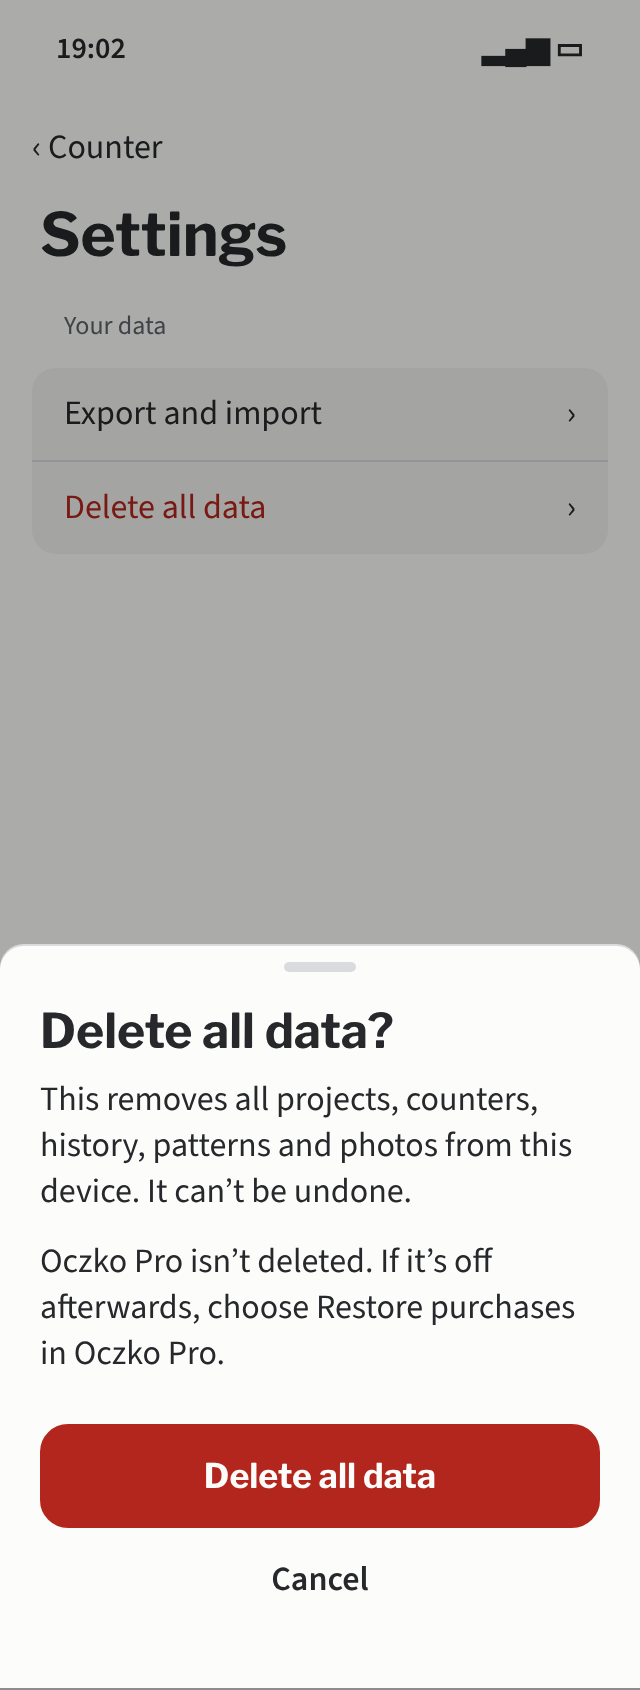
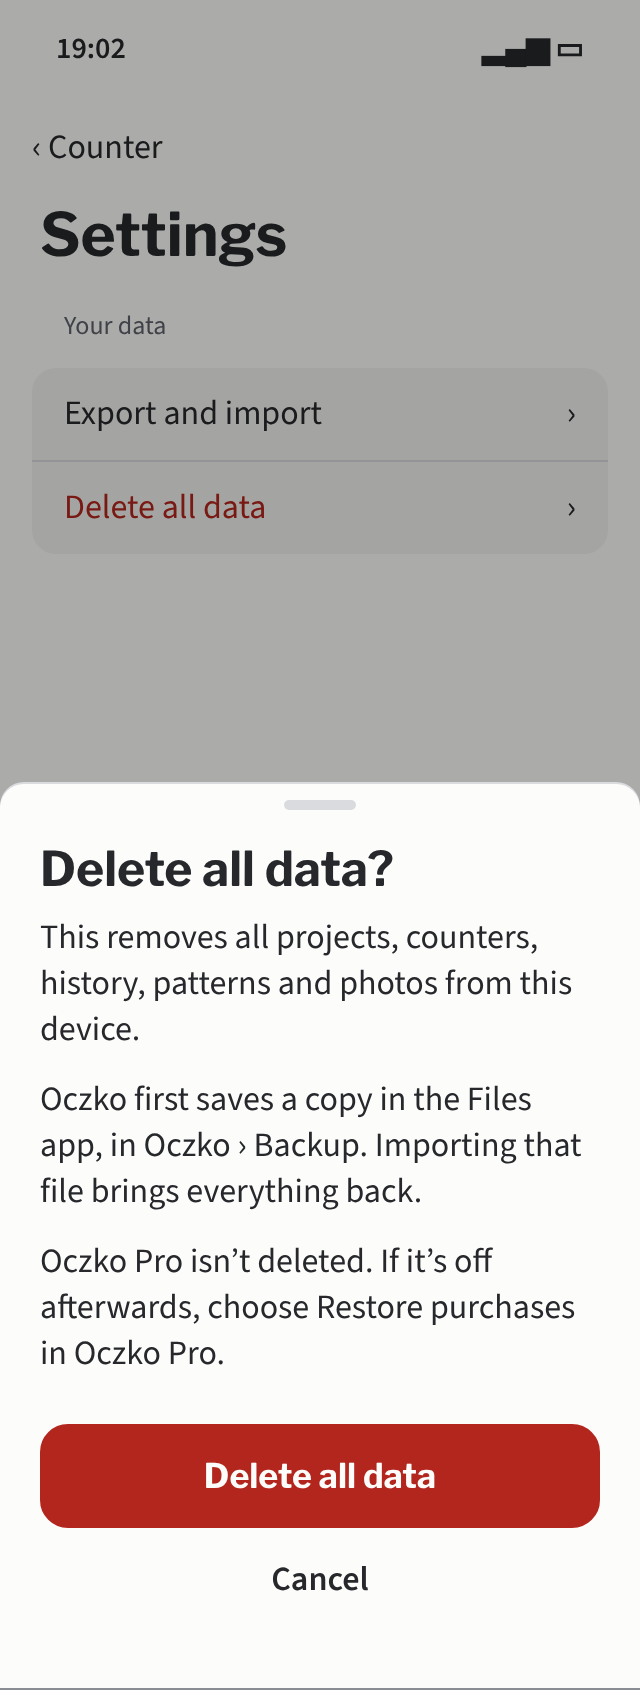
Projekt 04: partia 8 — dopiski P-327 i P-328 (rysik Pen, wiersze Ustawień, kopia przed usunięciem, kopie w „Data and sync”, token zegarka)
Rysik: pierwsze dotknięcie wybiera Pen (BR-WZR-004 S2). Ustawienia: wibracje, ekran
nie gaśnie, układ miar (ADR-0029). „Delete all data”: kopia przed usunięciem i
komunikat o jej niepowodzeniu. „Data and sync”: podpis o kopiach w Plikach (N-05-2).
Token haptykaZegarek.przypomnienie = WKHapticType.notification (ADR-0030, K-05g).
+11 kluczy en (81), 3 nowe stany makiety (32), wzorce 256. Tylko docs/design.

Changed region(s): [[0.0, 0.4615, 1.0, 0.7385]]

diff --git a/docs/design/fix10-2026-11-01/partia8.html b/docs/design/fix10-2026-11-01/partia8.html
@@ -315,7 +315,7 @@ main[data-ekran].tel { height: var(--h, 844px); min-height: 0; overflow: hidden;
 
 <!-- usun-wszystko -->
 <main data-ekran="usun-wszystko">
-<div class="status"><span>19:02</span><span>▂▄▆ ▭</span></div><div class="nav"><a href="#">‹ Counter</a><div class="ikony"></div></div><div class="tytul"><h1>Settings</h1></div><div class="naglowek-grupy">Your data</div><div class="grupa"><div class="el"><div class="tx">Export and import</div><span aria-hidden="true">›</span></div><div class="el"><div class="tx usun-tekst">Delete all data</div><span aria-hidden="true">›</span></div></div><div class="przyciemnienie"></div><div class="arkusz"><div class="uchwyt"></div><div class="tresc-arkusza"><h2>Delete all data?</h2><p>This removes all projects, counters, history, patterns and photos from this device. It can’t be undone.</p><p>Oczko Pro isn’t deleted. If it’s off afterwards, choose Restore purchases in Oczko Pro.</p></div><div class="przyciski"><button class="przycisk-niszczacy">Delete all data</button><button class="przycisk-tekst">Cancel</button></div></div>
+<div class="status"><span>19:02</span><span>▂▄▆ ▭</span></div><div class="nav"><a href="#">‹ Counter</a><div class="ikony"></div></div><div class="tytul"><h1>Settings</h1></div><div class="naglowek-grupy">Your data</div><div class="grupa"><div class="el"><div class="tx">Export and import</div><span aria-hidden="true">›</span></div><div class="el"><div class="tx usun-tekst">Delete all data</div><span aria-hidden="true">›</span></div></div><div class="przyciemnienie"></div><div class="arkusz"><div class="uchwyt"></div><div class="tresc-arkusza"><h2>Delete all data?</h2><p>This removes all projects, counters, history, patterns and photos from this device.</p><p>Oczko first saves a copy in the Files app, in Oczko › Backup. Importing that file brings everything back.</p><p>Oczko Pro isn’t deleted. If it’s off afterwards, choose Restore purchases in Oczko Pro.</p></div><div class="przyciski"><button class="przycisk-niszczacy">Delete all data</button><button class="przycisk-tekst">Cancel</button></div></div>
 </main>
 
 <!-- licznik-seria-blokada -->
@@ -366,6 +366,21 @@ main[data-ekran].tel { height: var(--h, 844px); min-height: 0; overflow: hidden;
 <!-- wzor-opcja-kropka -->
 <main data-ekran="wzor-opcja-kropka">
 <div class="status"><span>19:02</span><span>▂▄▆ ▭</span></div><div class="nav"><a href="#">‹ Harbor Sweater</a><div class="ikony"><span class="ikona" role="button" aria-label="Add note">✎</span><span class="ikona" role="button" aria-label="Pattern options">•••</span></div></div><div class="tytul"><h1 style="font-size:calc(24px * var(--dt-tytul))">Sleeve pattern</h1></div><div class="wzor-strona" style="height:420px"><div class="tekst-wzoru"></div><div class="znacznik" style="top:150px"><span class="tab">Row 48 ↑</span><span class="uchwyt-dol"></span></div><div class="chip-notatki" role="button" aria-label="Note on row 30" style="top:268px;max-width:none;width:28px;padding:0;justify-content:center"><span aria-hidden="true">✎</span></div></div><p class="podpis" style="margin:8px 20px 0">Page 2 of 5 · counter row 47</p><span class="oznaczenie">opcja B: sama ikona, tekst po stuknięciu</span>
+</main>
+
+<!-- ustawienia-preferencje -->
+<main data-ekran="ustawienia-preferencje">
+<div class="status"><span>19:02</span><span>▂▄▆ ▭</span></div><div class="nav"><a href="#">‹ Counter</a><div class="ikony"></div></div><div class="tytul"><h1>Settings</h1></div><div class="naglowek-grupy">Counting</div><div class="grupa"><div class="el"><div class="tx">Vibration</div><span class="przel wl" role="switch" aria-checked="true"></span></div><div class="el"><div class="tx">Keep screen on while counting</div><span class="przel wl" role="switch" aria-checked="true"></span></div><div class="el"><div class="tx">Units</div><span class="wartosc">Automatic</span><span aria-hidden="true">›</span></div></div><p class="podpis" style="margin:8px 32px 0">The screen stays on while the counter is open. Turning it off can save battery.</p><span class="oznaczenie">3 wiersze: wibracje, ekran, miary</span>
+</main>
+
+<!-- ustawienia-miary -->
+<main data-ekran="ustawienia-miary">
+<div class="status"><span>19:02</span><span>▂▄▆ ▭</span></div><div class="nav"><a href="#">‹ Settings</a><div class="ikony"></div></div><div class="tytul"><h1>Units</h1></div><div class="grupa"><div class="el"><div class="tx">Automatic</div><span aria-hidden="true">✓</span></div><div class="el"><div class="tx">Metric<small>mm, cm, g</small></div></div><div class="el"><div class="tx">Imperial<small>in, oz</small></div></div></div><p class="podpis" style="margin:8px 32px 0">Changes how sizes and lengths are shown and entered. Your saved data doesn’t change.</p>
+</main>
+
+<!-- stan-danych-kopie -->
+<main data-ekran="stan-danych-kopie">
+<div class="status"><span>19:02</span><span>▂▄▆ ▭</span></div><div class="nav"><a href="#">‹ Settings</a><div class="ikony"></div></div><div class="tytul"><h1>Data and sync</h1></div><div class="naglowek-grupy">iCloud</div><div class="grupa"><div class="el"><div class="tx">iCloud sync</div><span class="przel" role="switch" aria-checked="false"></span></div></div><p class="podpis" style="margin:16px 32px 0">Copies Oczko saved before importing or deleting are in the Files app, in Oczko › Backup. They count toward your device’s iCloud backup, so delete the ones you no longer need.</p><span class="oznaczenie">tylko gdy są kopie</span>
 </main>
 
 <script>

diff --git a/docs/design/design-spec.md b/docs/design/design-spec.md
@@ -14,7 +14,7 @@ Stan: E4 (przekazanie) · 2026-10-22 · Rola 04, build; fix NZ-P217-04 2026-10-2
 | Wzór, rysik, iPad (fix NZ-P217-04, grupa W) | `fix7-2026-10-26/wzor.html` (27 stanów), wzorce `wzorce-zrzuty/wzor-*` (268, `narzedzia/zrzuty-fix7.mjs`), klucze `fix7-2026-10-26/klucze.json` + `narzedzia/nakladaj-klucze-fix7.mjs`; kontrola `narzedzia/kontrola-nzp21704.mjs` |
 | „Udostępnij do Oczka”, skrzynka, iCloud (fix NZ-P217-04, grupy R i I) | `fix7-2026-10-26/udostepnij-icloud.html` (19 stanów), wzorce `wzorce-zrzuty/udostepnij-icloud-*` (228) |
 | Kosz wzoru, przycisk niszczący; opcje: licznik przy AX5, arkusz przy klawiaturze (fix-8) | `fix8-2026-10-27/fix8.html` (13 stanów na ekranie o wysokości urządzenia), wzorce `wzorce-zrzuty/fix8-*` (156, `narzedzia/zrzuty-fix8.mjs`), pomiar `fix8-2026-10-27/pomiar.json`, klucze `fix8-2026-10-27/klucze.json` |
-| Partia 8: włóczka w projekcie, komunikaty zakupu, „Replace”, notatka na wzorze, przypomnienia, cofanie z historii, licznik oczek, ukończone (P-326) | `fix10-2026-11-01/partia8.html` (29 stanów), wzorce `wzorce-zrzuty/partia8-*` (232, `narzedzia/zrzuty-partia8.mjs`), klucze `fix10-2026-11-01/klucze.json`; plan `fix10-2026-11-01.md` |
+| Partia 8: włóczka w projekcie, komunikaty zakupu, „Replace”, notatka na wzorze, przypomnienia, cofanie z historii, licznik oczek, ukończone (P-326) | `fix10-2026-11-01/partia8.html` (32 stany), wzorce `wzorce-zrzuty/partia8-*` (256, `narzedzia/zrzuty-partia8.mjs`), klucze `fix10-2026-11-01/klucze.json`; plan `fix10-2026-11-01.md` |
 | Klikalny prototyp i przejście poznawcze | `prototyp.html`, scenorys `przejscie/` (`narzedzia/scenorys.mjs`) |
 | Ikona | `ikona/` (warstwy SVG, `icon.png`, `ios-dark.png`, `watch.png`, `android-foreground.png`, `android-monochrome.png`, `splash-icon.png`, `arkusz.png`) |
 | Kroje (OFL) | `fonty/LibreFranklin.ttf` + licencja; treść: krój systemowy |
@@ -674,7 +674,7 @@ Makiety: `fix7-2026-10-26/wzor.html` (27 stanów: 20 telefonu w pionie, telefon 
 
 **Rysowanie (W5a, W6a; BR-WZR-004, BR-WZR-008; ADR-0012).**
 - **iPhone i iPad bez rysika:** zakreślacz (`wzor.zakreslacz`, testID `wzor-zakreslacz`, wartość VoiceOver `wzor.zakreslenia_*`) włącza tryb rysowania; pasek nawigacji zamienia się w pasek narzędzi: Highlighter (wybrany), `wzor.gumka`, ↶ (`wzor.cofnij_rysunek`), `wspolne.gotowe`. W trybie jeden palec zakreśla, dwa przewijają (podpowiedź `wzor.zakreslacz_podpowiedz` raz). Poza trybem palec tylko przewija (BR-WZR-008 S3).
-- **iPad (szerokość regular):** pasek narzędzi stały pod paskiem nawigacji: Highlighter, Pen (`wzor.pioro`), Eraser, ↶. Po pierwszym dotknięciu rysikiem polityka `pencilOnly`: rysik rysuje wybranym narzędziem od razu, palec zawsze przewija (P-218 Q2a); podpowiedź `wzor.rysik_podpowiedz` raz. Przed tym iPad działa jak iPhone.
+- **iPad (szerokość regular):** pasek narzędzi stały pod paskiem nawigacji: Highlighter, Pen (`wzor.pioro`), Eraser, ↶. Po pierwszym dotknięciu rysikiem polityka `pencilOnly`: rysik rysuje wybranym narzędziem od razu, palec zawsze przewija (P-218 Q2a); podpowiedź `wzor.rysik_podpowiedz` raz. Przed tym iPad działa jak iPhone. **Dopisek P-327 (2026-11-01, BR-WZR-004 S2; kontrakt ZM-11):** gdy po otwarciu wzoru nie wybrano narzędzia, **pierwsze dotknięcie rysikiem wybiera Pen i rysik pisze od razu**; potem obowiązuje `pencilOnly` (P-218 Q2a: rysik rysuje, palec przewija). Wybór Pen jest widoczny na pasku narzędzi (stan wybrany: kształt i obrys, nie sam kolor); bez rysika (iPhone, iPad przed pierwszym dotknięciem) zakreślacz palcem działa jak dotąd. Bez nowych tekstów ani makiety.
 - **Kolory:** zakreślacz = `kolor.zakreslacz` (`#F6E04A`) z mnożeniem na białej stronie, w obu motywach (strona to dokument); pióro = `kolor.wzor.znacznik` (`#26282C`), stała grubość. Bez wyboru kolorów i bez systemowej palety narzędzi (P-220 W5a, zasada 18). Rysunki to osobna warstwa, plik wzoru bez zmian (P-218 (2)).
 
 **iPad (W4b, G1; NFR-UKL-001 z P-218 Q3a).**
@@ -872,7 +872,7 @@ Raport: `oczko-warsztat` `04-studio/2026-10-30-audyt/`. Rozstrzygnięcia poniże
 - **D1a (P-281), brzmienie dla 35 języków:** w nazwach i opisach para „druty i szydełko”; w etykietach do 12 znaków słowo szersze (rękodzieło), a nie samo słowo drutowe; języki bez takiego słowa w słowniku: `[DO USTALENIA]` (rola 09).
 
 ## Partia 8: luki zgodności z zakresem 1.0 (07-jakosc-001, 002, 003, 007, 011, 012, 014 S5, 021, 025, 027, 031; P-326)
-Plan i decyzje: `fix10-2026-11-01.md`. Makiety: `fix10-2026-11-01/partia8.html` (29 stanów: 27 rekomendowanych + 2 opcje), wzorce `wzorce-zrzuty/partia8-<stan>-<320|390>-<jasny|ciemny>[-duzy].png` (232; wyjątek nazwany: bez 430 pt), klucze `fix10-2026-11-01/klucze.json` (70 nowych kluczy en z kontekstem, 7 zastąpień), narzędzie `narzedzia/zrzuty-partia8.mjs`. **Nowych tokenów i wzorców nie ma:** linia informacji (`uwaga`), arkusz formularza, alert, wiersz grupy, przycisk z obrysem, chip na stronie wzoru ze stałymi kolorami znacznika. Stan wyróżnień „opcja” = propozycja do decyzji koordynatora (P-087); do czasu decyzji 08 wdraża **rekomendację**. Kod 04 nie czyta (kwarantanna), więc „stan dziś” pochodzi z raportu zgodności 07 (ecc4c36).
+Plan i decyzje: `fix10-2026-11-01.md`. Makiety: `fix10-2026-11-01/partia8.html` (32 stany: 30 rekomendowanych + 2 opcje), wzorce `wzorce-zrzuty/partia8-<stan>-<320|390>-<jasny|ciemny>[-duzy].png` (256; wyjątek nazwany: bez 430 pt), klucze `fix10-2026-11-01/klucze.json` (81 nowych kluczy en z kontekstem, 7 zastąpień), narzędzie `narzedzia/zrzuty-partia8.mjs`. **Nowych tokenów i wzorców nie ma:** linia informacji (`uwaga`), arkusz formularza, alert, wiersz grupy, przycisk z obrysem, chip na stronie wzoru ze stałymi kolorami znacznika. Stan wyróżnień „opcja” = propozycja do decyzji koordynatora (P-087); do czasu decyzji 08 wdraża **rekomendację**. Kod 04 nie czyta (kwarantanna), więc „stan dziś” pochodzi z raportu zgodności 07 (ecc4c36).
 
 **001 · Włóczka w projekcie i „Edit stash” (F-37; BR-ZAP-002).**
 - **Wiersz „Yarn” w grupie „Details”** ekranu projektu (`projekt-wloczka`), pod „Needles or hook”: wartość = nazwa włóczki (jedna), `projekt.wloczki_*` (kilka) albo `projekt.wloczka_brak`. Stuknięcie → arkusz formularza `formularz.wloczka_tytul` (Cancel / Save): lista włóczek z zapasu jako wiersze z polem wyboru (kwadrat ze znakiem ✓ i `accessibilityRole="checkbox"`; stan niesie znak, nie kolor), druga linia `ukonczenie.w_zapasie_*`; włóczka z zapasem 0 też wybieralna (zużycie ponad zapas obsługuje karta). Pod listą odnośnik `zapas.dodaj`; po dodaniu włóczki arkusz wraca z nową włóczką zaznaczoną. Pusty zapas (`wloczka-pusto`): `formularz.wloczka_pusto` + przycisk `zapas.dodaj`, Save nieaktywny. Zapis = zbiór wierszy `projekt_wloczka`; odznaczenie włóczki, której zużycie już wpisano, usuwa wiersz (potwierdzenia nie ma — zużycie zapisuje dopiero karta).
@@ -887,7 +887,7 @@ Plan i decyzje: `fix10-2026-11-01.md`. Makiety: `fix10-2026-11-01/partia8.html` 
 
 **011 · Edycja i usuwanie przypomnień; sygnał po wpisaniu wartości (F-06; BR-LIC-009).** Menu ••• licznika: gdy licznik **nie ma** przypomnień — bez zmian („Add a reminder…” otwiera formularz); gdy **ma** ≥ 1 — pozycja `przyp.menu` „Reminders” z liczbą po prawej (`przyp-menu`) → arkusz listy `przyp.tytul` (Close / tytuł / `wspolne.dodaj`; `przyp-lista`): wiersz = instrukcja + druga linia `przyp.wiersz_*`; stuknięcie → arkusz `przyp.edytuj_tytul` (te same pola i podgląd „You’ll be reminded on rows: …” co przy dodawaniu) z wierszem destrukcyjnym `przyp.usun` na końcu (`przyp-edycja`) → alert `przyp.usun_tytul` (`przyp-usun`; styl `destructive`, nie przycisk `niszczacy`: to mała rzecz, jak „Delete part”). Po Save/Delete licznik od razu przelicza pasek zakreślacza (rząd w robocie). **Sygnał po wpisaniu wartości (S4, RD-13-W23):** po „Enter the row number” ekran liczy przypomnienia według reguły i, gdy nowy rząd w robocie ma przypomnienie, pokazuje **jedno** (najnowsze, nie każde pominięte): pasek zakreślacza + jedna wibracja wzorca „przypomnienie” + jedno ogłoszenie VoiceOver (jak przy wejściu w rząd po +1; `licznik-po-wpisaniu`); przy wpisaniu mniejszej wartości — bez sygnału (RD-13-W8). **Opcje (P) dla miejsca edycji:** **A (rekomendacja) — „Reminders” w menu** (jedno miejsce na dodawanie, zmianę i usunięcie; działa także na rzędach bez aktywnego przypomnienia); C — stuknięcie w pasek zakreślacza otwiera edycję (`przyp-opcja-c`; krócej, ale tylko w rzędzie z przypomnieniem, więc usunięcie przypomnienia „na zapas” wymaga dojścia do tego rzędu; pasek przestaje być tylko komunikatem). D2 (P-325) już przyjął „F-06 przypomnienie zmienia cały ekran” do stanu projektu — bez zmiany. Opcja A obejmuje też zegarek i ekran blokady: tam zmiany z aplikacji widać po następnym odświeżeniu stanu (bez nowych ekranów).
 
-**012 · „Delete all data” (F-34; KP-05) i iPad.** Arkusz decyzji (`usun-wszystko`): `ustawienia.usun_pytanie` + **drugi akapit `ustawienia.usun_pro`** (zakup nie jest usuwany, Pro wraca przez „Restore purchases”); przycisk `niszczacy` bez zmian. **„this iPhone” → „this device”** w tym tekście i w sześciu kluczach iCloud (lista w `klucze.json` → `zastapEn`; iCloud jest w 1.0 ukryty, ZM-06, ale tekst nie może zostać błędny po włączeniu). Opcje: **a (rekomendacja) — jedno słowo neutralne „device”** (1 wersja na 35 języków, bez odmiany po modelu); b — warianty `_iphone`/`_ipad` (dokładniej, ale 2 × tłumaczenia i odmiana przypadków w językach fleksyjnych). Wyjątek zostaje: „Unlock iPhone to count.” na ekranie blokady (nazwa komunikatu iOS).
+**012 · „Delete all data” (F-34; KP-05; P-328) i iPad.** Arkusz decyzji (`usun-wszystko`): `ustawienia.usun_pytanie` (bez zdania „It can’t be undone.” — od P-328 przed usunięciem **powstaje kopia** jak w Treningu) + **akapit `ustawienia.usun_kopia`** (kopia w Plikach, w Oczko › Backup, import przywraca wszystko) + **akapit `ustawienia.usun_pro`** (zakup nie jest usuwany, Pro wraca przez „Restore purchases”); przycisk `niszczacy` bez zmian. Kopia nieudana (brak miejsca, błąd zapisu) przerywa usunięcie, dane zostają, komunikat `ustawienia.usun_kopia_blad` w alercie systemowym z „OK”. **„this iPhone” → „this device”** w tym tekście i w sześciu kluczach iCloud (lista w `klucze.json` → `zastapEn`; iCloud jest w 1.0 ukryty, ZM-06, ale tekst nie może zostać błędny po włączeniu). Opcje: **a (rekomendacja) — jedno słowo neutralne „device”** (1 wersja na 35 języków, bez odmiany po modelu); b — warianty `_iphone`/`_ipad` (dokładniej, ale 2 × tłumaczenia i odmiana przypadków w językach fleksyjnych). Wyjątek zostaje: „Unlock iPhone to count.” na ekranie blokady (nazwa komunikatu iOS).
 
 **014 S5 · Źródło i godzina serii (F-47; BR-LIC-019).** Baner strażnika po scaleniu serii z innego źródła (`licznik-seria-blokada`): tekst z **żródłem i godziną serii, nie scalenia**: `licznik.seria_blokada_*` („Added 5 rows from the lock screen at 21:14. Undo?”) albo `licznik.seria_zegarek_*`; przycisk `licznik.cofnij` bez zmian; seria z samej aplikacji zachowuje obecny tekst „Added 3 rows in 1 s. Undo?”. Baner nie znika po czasie i znika przy następnym zwykłym +1 (jak dotąd); VoiceOver czyta pełne zdanie + „Undo is available.”. Cofnięcie serii z historii nie zwraca dnia limitu (L-06), bez dodatkowego tekstu.
 
@@ -907,6 +907,12 @@ Plan i decyzje: `fix10-2026-11-01.md`. Makiety: `fix10-2026-11-01/partia8.html` 
 | F-46 | Projekt roboczy: linia pod tytułem „Counter” to **nazwa części** (jeśli jest), a „Started {{data}} · Name it” w osobnej, drugiej linii; data nigdy zamiast nazwy części (reguła, bez nowego klucza) |
 | F-50 | Wiersz listy w toku: „{część} · row {n} of {cel}” — `projekty.wiersz_cel` (R4) już zaprojektowany; bez zmiany projektu |
 | F-63 | Wiersz „Oczko Pro” w Ustawieniach pokazuje stan: `ustawienia.pro_wlaczone` „On” przy aktywnym Pro (`ustawienia-pro`); bez Pro — bez zmian (licznik darmowych dni) |
+
+**P-328 (2026-11-01) · Preferencje, kopie i token zegarka (dopiski do partii 8; ADR-0028–0030).**
+- **Trzy wiersze w Ustawieniach** (`ustawienia-preferencje`, `ustawienia-miary`; ADR-0029): grupa „Counting” (zwykła wielka litera, jak inne nagłówki grup) z wierszami w kolejności: **Vibration** (przełącznik; istniejąca etykieta), **`ustawienia.ekran_nie_gasnie`** (przełącznik systemowy, domyślnie włączony) i **Units** (istniejący klucz `ustawienia.uklad_miar`; wartość „Automatic / Metric / Imperial” → ekran listy z jednym ✓, jak „Language”). Podpis pod grupą `ustawienia.ekran_nie_gasnie_opis`; podpis pod listą miar `ustawienia.miary_opis`. Przełączniki systemowe (≥ 44 pt, stan niesie położenie, nie kolor); zapis natychmiast (bez Save); błąd zapisu = przełącznik wraca i pojawia się `licznik.blad_zapisu` (kontrakt ADR-0029). Miary zmieniają wyświetlanie i wpisywanie, dane zostają w mm i g. „Delete all data” przywraca wartości domyślne (ADR-0029 pkt 4).
+- **Kopia w „Data and sync”** (N-05-2; `stan-danych-kopie`): cichy podpis `stan_danych.kopie_opis` pod grupą, **tylko gdy w Documents/Backup są kopie Oczka** (bez kopii nic nie jest pokazane — zasada 18, żadnego pustego pouczenia). Mówi, gdzie są i że wliczają się do kopii iCloud urządzenia; bez liczb i rozmiarów w 1.0 (liczenie rozmiaru to nowa funkcja bez dowodu wartości; powrót do pomysłu po pomiarze z TestFlight, jeśli właścicielka lub recenzje zgłoszą problem z miejscem).
+- **Kopia przed „Delete all data”** (P-328, N-05-1): patrz 012.
+- **Token `haptykaZegarek.przypomnienie`** (`tokeny.json`; ADR-0030, K-05g): `WKHapticType.notification` — HIG, Playing haptics (watchOS), surowy JSON odczytany 2026-11-01: „Tells the person that something significant or out of the ordinary has happened and requires their attention.” Wejście na rząd z przypomnieniem; zwykły rząd zostaje `plus`, nieudany zapis `bladZapisu`, blokada `blokadaStukniecie`. Dźwięk w parze z haptyką tak jak dotąd (ustawienie „Vibration” wyłącza oba po stronie telefonu; zegarek ma własny przełącznik systemowy).
 
 **Dla 08 (partia 8, grupy 8a–8c).** (1) Nałóż `fix10-2026-11-01/klucze.json` (`en` i `kontekst` do słowników; `zastapEn` — zamiana tekstu z zachowaniem kontekstu; na wzór `narzedzia/nakladaj-klucze-fix6.mjs`); (2) klucz `dane.zastapiono` ma kształt z ADR-0028 (jeden klucz opisu z `{{kopia}}`); (3) testID (propozycja dla 07): `projekt-wloczka`, `wloczka-wybor`, `ukonczenie-wybierz-wloczke`, `oferty-komunikat`, `dane-zastapiono`, `wzor-notatka-chip`, `przyp-lista`, `przyp-usun`, `historia-cofnij`, `historia-starszy`, `projekty-ukonczono`; (4) test każdej poprawki przez trasę, nie komponent z propsami (07-jakosc-032).
 

diff --git a/docs/design/fix10-2026-11-01.md b/docs/design/fix10-2026-11-01.md
@@ -2,7 +2,7 @@
 Plik stanu sesji · sesja `session_01T66VBw5zjP7NwCcUGsVkWD` · zlecenie koordynatora: `oczko-warsztat` `koordynacja/role-2026-11-01/04-partia8-projekty.md` (b379ef3, przeczytane w całości) · raport wejściowy: `oczko-warsztat` `07-jakosc/2026-11-01-zgodnosc-1-0/raport.md` (ecc4c36; sekcje 001, 002, 003, 007, 011, 012, 014, 021, 025, 027, 031) · tryb: fix (P-087: STOP-y rozstrzyga koordynator).
 
 ## Stan
-- **Zrobione:** projekty i teksty dla wszystkich 11 zleceń; makiety `fix10-2026-11-01/partia8.html` (29 stanów), wzorce `wzorce-zrzuty/partia8-*` (232), klucze `fix10-2026-11-01/klucze.json` (70 nowych kluczy en z kontekstem, 7 zastąpień), sekcja „Partia 8” w `design-spec.md`.
+- **Zrobione:** projekty i teksty dla wszystkich 11 zleceń; makiety `fix10-2026-11-01/partia8.html` (32 stany), wzorce `wzorce-zrzuty/partia8-*` (256), klucze `fix10-2026-11-01/klucze.json` (81 nowych kluczy en z kontekstem, 7 zastąpień), sekcja „Partia 8” w `design-spec.md`.
 - **Do decyzji koordynatora (P):** 001 (A/B), 007 (A/B), 011 (A/C), 021 (A/B), 012 („device” a/b). W każdej wdrożenie domyślne = rekomendacja; opcje wyrenderowane tam, gdzie różnią się wyglądem (`przyp-opcja-c`, `wzor-opcja-kropka`).
 - **Poza moim zakresem (zgłoszone):** zob. „Do sprawdzenia”.
 
@@ -37,7 +37,7 @@ Plik stanu sesji · sesja `session_01T66VBw5zjP7NwCcUGsVkWD` · zlecenie koordyn
 ## Dowody
 | Sprawdzenie | Wynik |
 |---|---|
-| Zrzuty | `node zrzuty-partia8.mjs … ` → 232 pliki (29 stanów × 320/390 pt × jasny/ciemny × tekst domyślny/AX5); krój Libre Franklin i Source Sans 3 załadowane (skrypt kończy się błędem, gdy nie) |
+| Zrzuty | `node zrzuty-partia8.mjs … ` → 256 plików (32 stany × 320/390 pt × jasny/ciemny × tekst domyślny/AX5); krój Libre Franklin i Source Sans 3 załadowane (skrypt kończy się błędem, gdy nie) |
 | Wyjątek nazwany | bez szerokości 430 pt (różni się od 390 pt tylko szerokością kolumny; 120 plików mniej) — zasada wspólna 7; pełną linię bazową SP-13 po buildzie kandydata dostarczy 07 |
 | Warsztat (`narzedzia/warsztat.mjs`, 320 i 390 pt) | kod 0; ostrzeżenia te same co w poprzednich fixach (jedna strona z 30 ekranami: 11 wielkości tekstu, odstępy 1, 2, 5, 6, 10, 14 px z istniejących komponentów systemowych) |
 | Kontrast (`narzedzia/kontrast.mjs`, 15 par) | 14 par OK; 1 poniżej 4,5:1: tekst nieaktywnego przycisku w motywie jasnym 4,42:1 (`przyciskNieaktywny*`, token istniejący, element nieaktywny jest poza progiem WCAG 1.4.3; informacja powtórzona w linii ≥ 6,36:1). Brak nowych tokenów, więc `kontrast-tabela.txt` bez zmian |
@@ -46,6 +46,9 @@ Plik stanu sesji · sesja `session_01T66VBw5zjP7NwCcUGsVkWD` · zlecenie koordyn
 
 ## Zmiana w trakcie sesji
 Po `git pull --rebase` (9b442a0) przeczytałem ADR-0028 (05): kopia przed „Replace” to `.oczko` w `Documents/Backup` widoczne w Plikach, klucz `dane.zastapiono`. Zmieniłem 003 (jeden arkusz wyniku, bez przycisku udostępniania i bez opcji B), usunąłem stan `import-opcja-przed` i 4 klucze, nazwy kluczy `dane.*` zgodne z ADR. Pytanie 03/D2 „narzędzie domyślne rysika dla 04” (`scope-contract`, 4bad483) dotyczy 07-jakosc-026 — poza listą zleceń tej partii, nie ruszałem.
+
+## Dopiski z poleceń koordynatora (P-327, P-328; 18:05 i 18:10 UTC)
+Zrobione bez nowego STOP-u: rysik Pen po pierwszym dotknięciu (design-spec, przy akapicie iPada); trzy wiersze Ustawień (`ustawienia-preferencje`, `ustawienia-miary`); `dane.zastapiono` (już w 1d2810b, zgodne z ADR-0028); token `haptykaZegarek.przypomnienie` = `WKHapticType.notification` (cytat HIG z surowego JSON, 2026-11-01; `kontrola-nz05f404.mjs` 5/5); N-05-2: podpis `stan_danych.kopie_opis` tylko gdy są kopie (`stan-danych-kopie`); P-328: akapit `ustawienia.usun_kopia` i `ustawienia.usun_kopia_blad`, z `ustawienia.usun_pytanie` usunięte zdanie „It can’t be undone.”. +11 kluczy (81 razem).
 
 ## Do sprawdzenia / otwarte [DO USTALENIA]
 - **05:** czy istnieje przypadek użycia usunięcia notatki wzoru.
